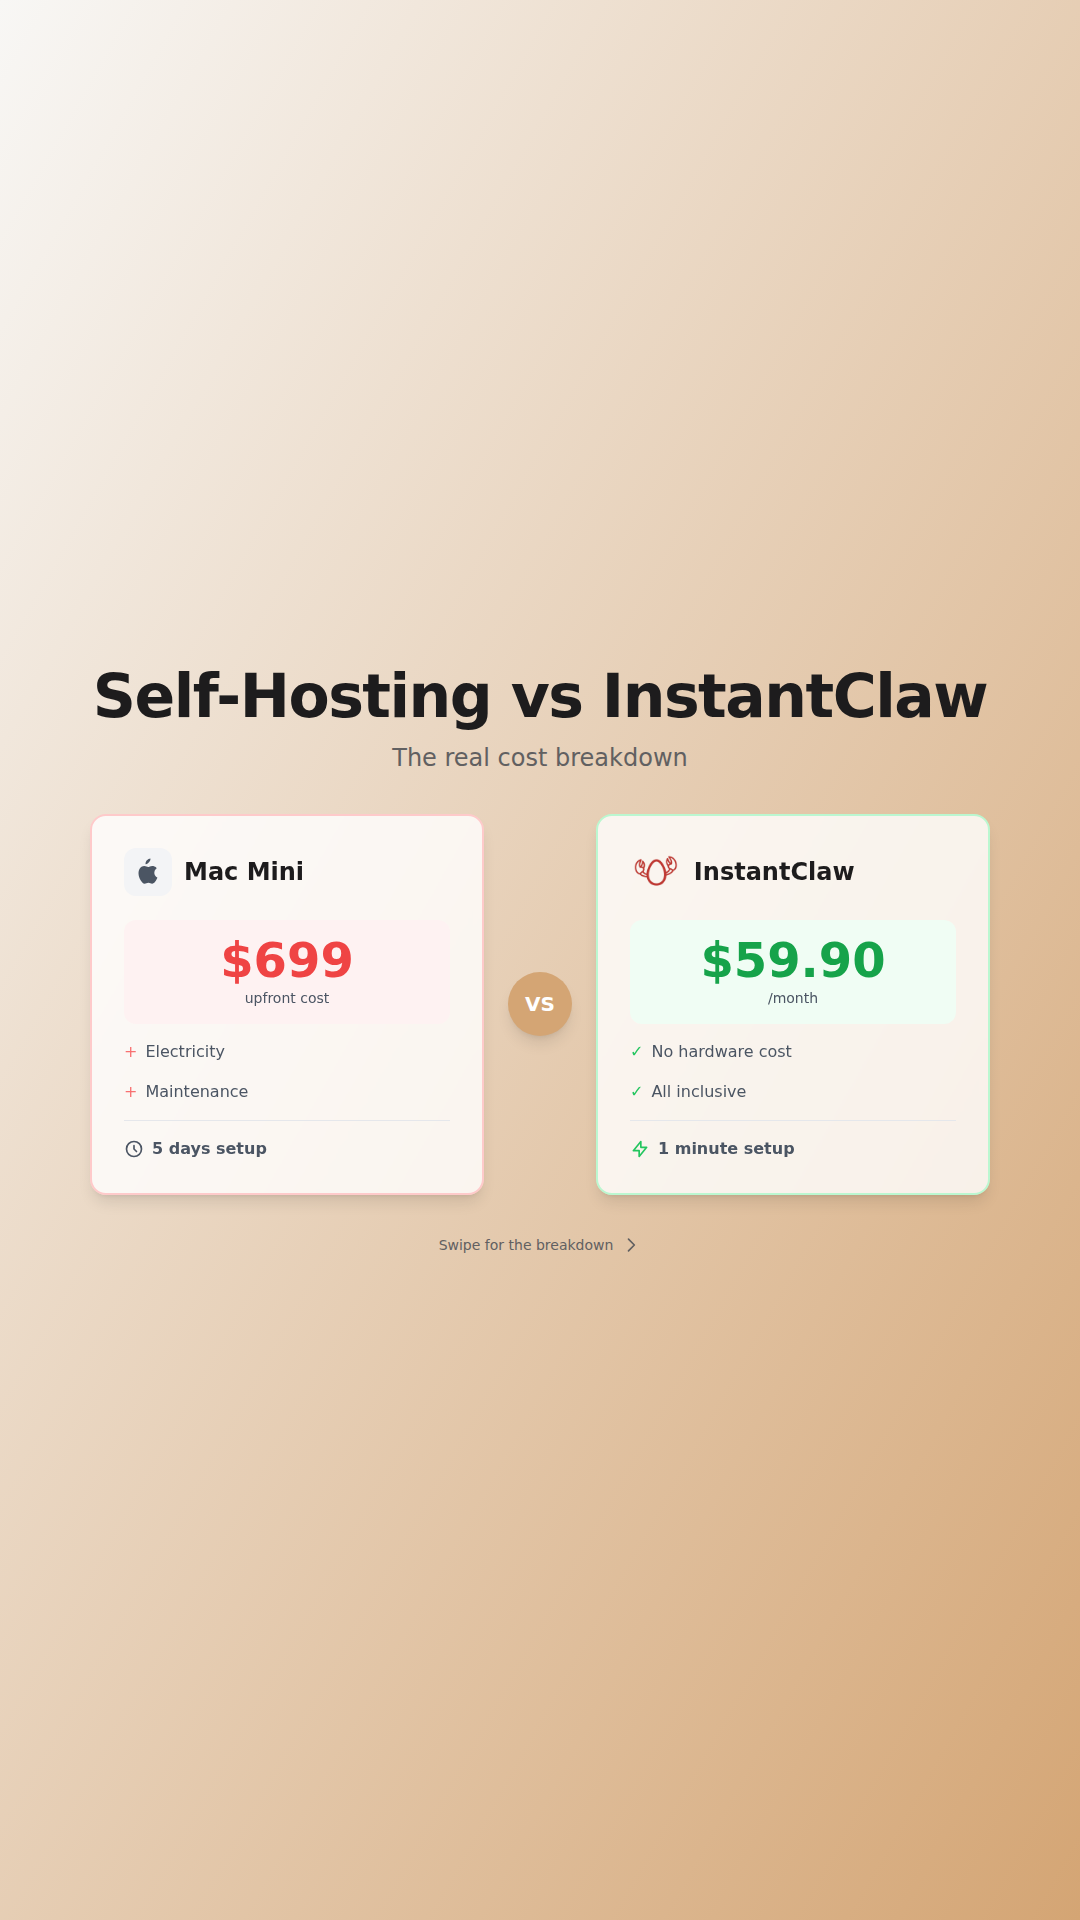
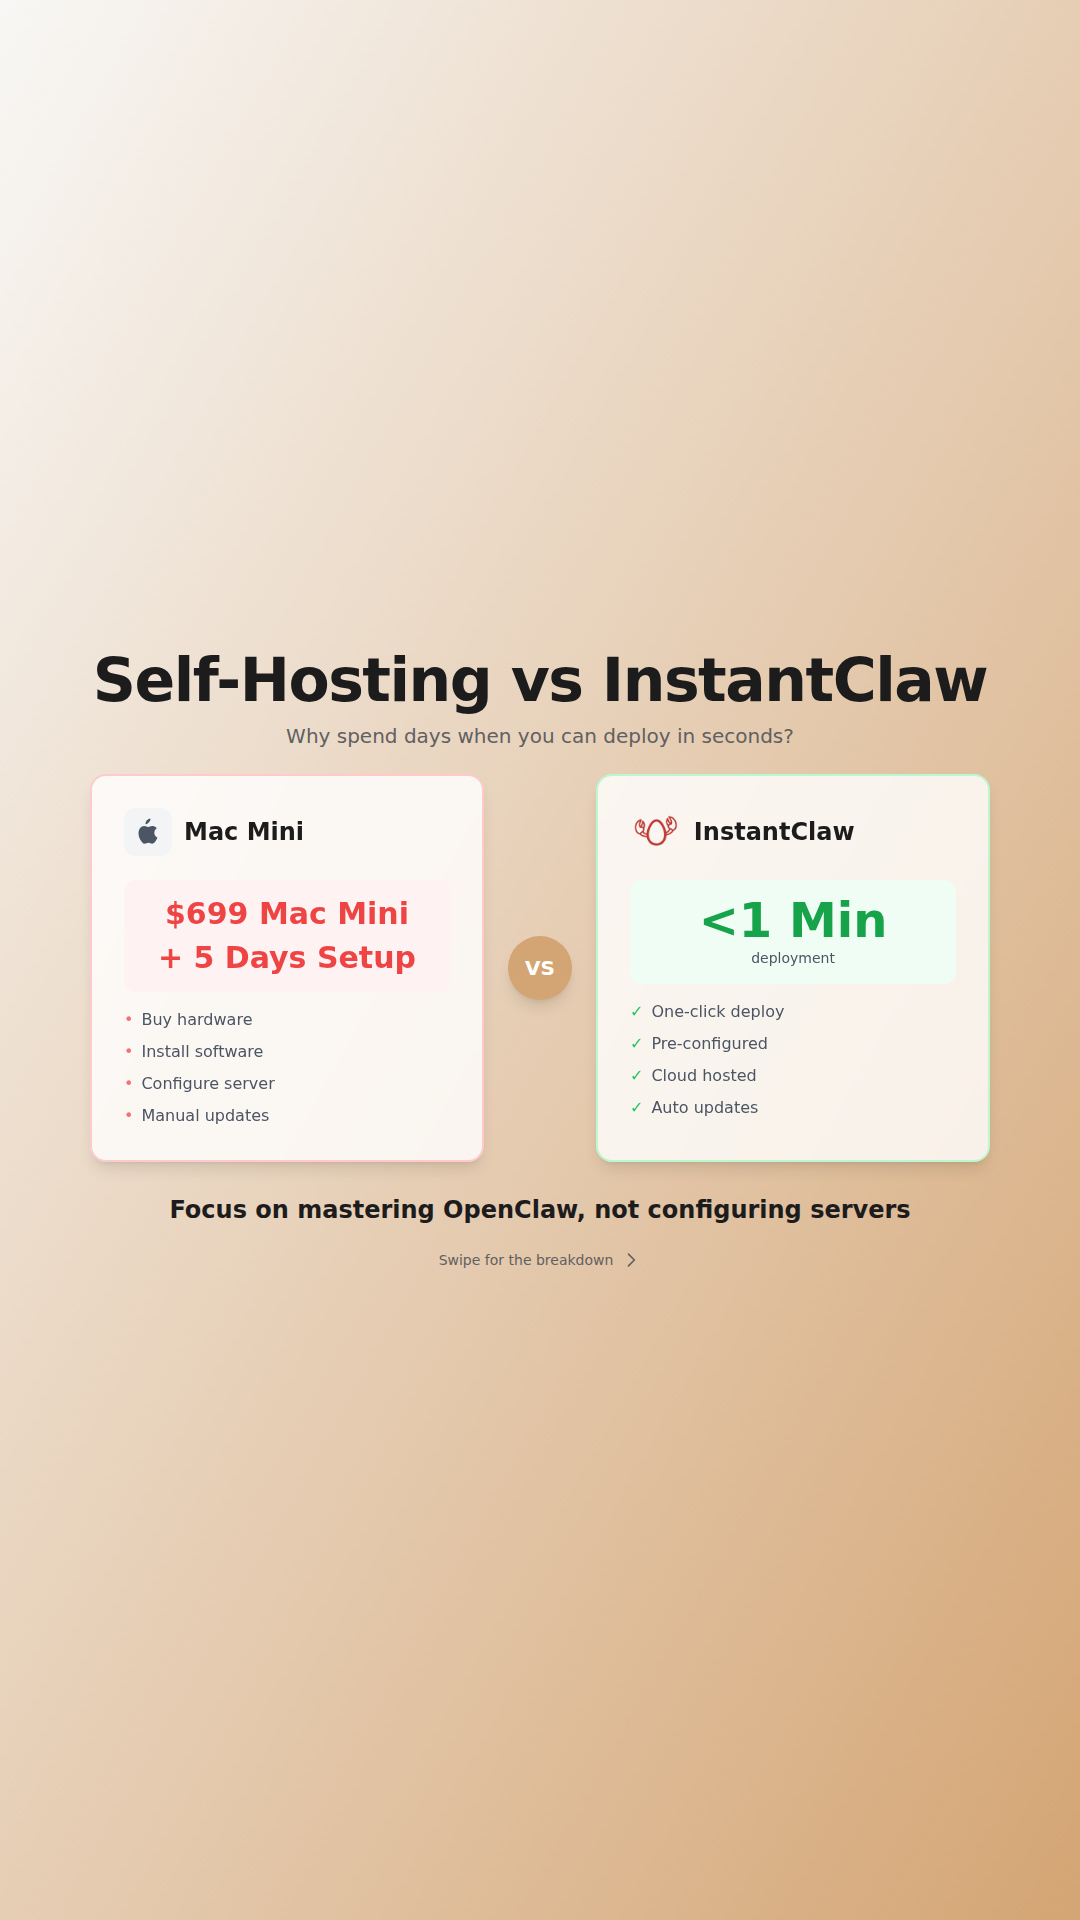
Finalize Post 2 Slide 1: Mac Mini vs InstantClaw
- Equal font sizes for 99 Mac Mini and + 5 Days Setup
- Focus on time comparison, not price
- Tagline: Focus on mastering OpenClaw, not configuring servers
- Also includes Slide 2 alternatives (Timeline and List versions)

Changed region(s): [[0.0611, 0.3438, 0.9167, 0.6562], [0.4583, 0.4688, 0.55, 0.5625]]

diff --git a/pages/post2-slide-01.js b/pages/post2-slide-01.js
@@ -4,11 +4,11 @@ const Post2Slide01Cover = () => {
   return (
     <div className="min-h-screen w-full flex flex-col items-center justify-center bg-gradient-to-br from-[#F8F7F5] to-[#D4A574] p-8 font-sans antialiased">
       {/* Title */}
-      <div className="text-center mb-10">
-        <h1 className="font-sans text-5xl md:text-6xl font-bold tracking-tight text-[#1D1C1D] mb-4">
+      <div className="text-center mb-6">
+        <h1 className="font-sans text-5xl md:text-6xl font-bold tracking-tight text-[#1D1C1D] mb-3">
           Self-Hosting vs InstantClaw
         </h1>
-        <p className="text-2xl text-[#616061]">The real cost breakdown</p>
+        <p className="text-xl text-[#616061]">Why spend days when you can deploy in seconds?</p>
       </div>
 
       {/* Comparison Cards */}
@@ -26,23 +26,25 @@ const Post2Slide01Cover = () => {
           
           <div className="space-y-4">
             <div className="text-center py-4 bg-red-50 rounded-xl">
-              <span className="text-5xl font-bold text-red-500">$699</span>
-              <p className="text-sm text-gray-600 mt-1">upfront cost</p>
+              <span className="text-3xl font-bold text-red-500">$699 Mac Mini</span>
+              <p className="text-3xl font-bold text-red-500 mt-2">+ 5 Days Setup</p>
             </div>
-            <div className="flex items-center gap-2 text-gray-600">
-              <span className="text-red-400">+</span>
-              <span>Electricity</span>
-            </div>
-            <div className="flex items-center gap-2 text-gray-600">
-              <span className="text-red-400">+</span>
-              <span>Maintenance</span>
-            </div>
-            <div className="pt-4 border-t border-gray-200">
-              <div className="flex items-center gap-2 text-gray-600">
-                <svg className="w-5 h-5" fill="none" viewBox="0 0 24 24" stroke="currentColor">
-                  <path strokeLinecap="round" strokeLinejoin="round" strokeWidth={2} d="M12 8v4l3 3m6-3a9 9 0 11-18 0 9 9 0 0118 0z" />
-                </svg>
-                <span className="font-semibold">5 days setup</span>
+            <div className="space-y-2 text-gray-600">
+              <div className="flex items-center gap-2">
+                <span className="text-red-400">•</span>
+                <span>Buy hardware</span>
+              </div>
+              <div className="flex items-center gap-2">
+                <span className="text-red-400">•</span>
+                <span>Install software</span>
+              </div>
+              <div className="flex items-center gap-2">
+                <span className="text-red-400">•</span>
+                <span>Configure server</span>
+              </div>
+              <div className="flex items-center gap-2">
+                <span className="text-red-400">•</span>
+                <span>Manual updates</span>
               </div>
             </div>
           </div>
@@ -69,31 +71,40 @@ const Post2Slide01Cover = () => {
           
           <div className="space-y-4">
             <div className="text-center py-4 bg-green-50 rounded-xl">
-              <span className="text-5xl font-bold text-green-600">$59.90</span>
-              <p className="text-sm text-gray-600 mt-1">/month</p>
+              <span className="text-5xl font-bold text-green-600">&lt;1 Min</span>
+              <p className="text-sm text-gray-600 mt-1">deployment</p>
             </div>
-            <div className="flex items-center gap-2 text-gray-600">
-              <span className="text-green-500">✓</span>
-              <span>No hardware cost</span>
-            </div>
-            <div className="flex items-center gap-2 text-gray-600">
-              <span className="text-green-500">✓</span>
-              <span>All inclusive</span>
-            </div>
-            <div className="pt-4 border-t border-gray-200">
-              <div className="flex items-center gap-2 text-gray-600">
-                <svg className="w-5 h-5 text-green-500" fill="none" viewBox="0 0 24 24" stroke="currentColor">
-                  <path strokeLinecap="round" strokeLinejoin="round" strokeWidth={2} d="M13 10V3L4 14h7v7l9-11h-7z" />
-                </svg>
-                <span className="font-semibold">1 minute setup</span>
+            <div className="space-y-2 text-gray-600">
+              <div className="flex items-center gap-2">
+                <span className="text-green-500">✓</span>
+                <span>One-click deploy</span>
+              </div>
+              <div className="flex items-center gap-2">
+                <span className="text-green-500">✓</span>
+                <span>Pre-configured</span>
+              </div>
+              <div className="flex items-center gap-2">
+                <span className="text-green-500">✓</span>
+                <span>Cloud hosted</span>
+              </div>
+              <div className="flex items-center gap-2">
+                <span className="text-green-500">✓</span>
+                <span>Auto updates</span>
               </div>
             </div>
           </div>
         </div>
       </div>
 
+      {/* Key Message */}
+      <div className="mt-8 text-center">
+        <p className="text-2xl font-bold text-[#1D1C1D]">
+          Focus on mastering OpenClaw, not configuring servers
+        </p>
+      </div>
+
       {/* Swipe indicator */}
-      <div className="mt-10 flex items-center gap-2 text-[#616061]">
+      <div className="mt-6 flex items-center gap-2 text-[#616061]">
         <span className="text-sm">Swipe for the breakdown</span>
         <svg className="w-5 h-5" fill="none" viewBox="0 0 24 24" stroke="currentColor">
           <path strokeLinecap="round" strokeLinejoin="round" strokeWidth={2} d="M9 5l7 7-7 7" />

diff --git a/pages/post2-slide-02-timeline.js b/pages/post2-slide-02-timeline.js
@@ -1,0 +1,96 @@
+import React from 'react';
+
+// Option C: Timeline with Accumulating Costs
+const Post2Slide02Timeline = () => {
+  const timelineItems = [
+    {
+      month: "Month 0",
+      label: "Purchase",
+      cost: "$699",
+      description: "Mac Mini hardware",
+      icon: "💻",
+      color: "bg-red-100 text-red-600"
+    },
+    {
+      month: "Month 1-12",
+      label: "Electricity",
+      cost: "$10-20/mo",
+      description: "24/7 server running",
+      icon: "⚡",
+      color: "bg-yellow-100 text-yellow-600"
+    },
+    {
+      month: "Ongoing",
+      label: "Maintenance",
+      cost: "Your time",
+      description: "Manual updates & fixes",
+      icon: "🔧",
+      color: "bg-orange-100 text-orange-600"
+    },
+    {
+      month: "When it breaks",
+      label: "Repairs",
+      cost: "$??",
+      description: "Unexpected issues",
+      icon: "🔄",
+      color: "bg-gray-100 text-gray-600"
+    }
+  ];
+
+  return (
+    <div className="min-h-screen w-full flex flex-col items-center justify-center bg-gradient-to-br from-[#F8F7F5] to-[#D4A574] p-6 font-sans antialiased">
+      {/* Title */}
+      <div className="text-center mb-8">
+        <h1 className="font-sans text-5xl md:text-6xl font-bold tracking-tight text-[#1D1C1D] mb-2">
+          The Real Cost
+        </h1>
+        <p className="text-xl text-[#616061]">Mac Mini over 12 months</p>
+      </div>
+
+      {/* Timeline */}
+      <div className="relative max-w-[600px] w-full">
+        {/* Vertical Line */}
+        <div className="absolute left-8 top-0 bottom-0 w-0.5 bg-[#D4A574]/40"></div>
+
+        {/* Timeline Items */}
+        <div className="space-y-4">
+          {timelineItems.map((item, index) => (
+            <div key={index} className="relative flex items-start gap-4 pl-2">
+              {/* Icon Circle */}
+              <div className={`w-12 h-12 rounded-full ${item.color} flex items-center justify-center text-2xl shrink-0 relative z-10 border-4 border-[#F8F7F5]`}>
+                {item.icon}
+              </div>
+              
+              {/* Content Card */}
+              <div className="flex-1 bg-white/90 backdrop-blur-sm rounded-xl p-4 shadow-md border border-[#D4A574]/20">
+                <div className="flex justify-between items-start mb-1">
+                  <span className="text-sm font-semibold text-[#616061]">{item.month}</span>
+                  <span className="text-xl font-bold text-[#1D1C1D]">{item.cost}</span>
+                </div>
+                <h3 className="text-lg font-bold text-[#1D1C1D]">{item.label}</h3>
+                <p className="text-sm text-[#616061]">{item.description}</p>
+              </div>
+            </div>
+          ))}
+        </div>
+      </div>
+
+      {/* Total Cost Callout */}
+      <div className="mt-8 bg-red-50 border-2 border-red-200 rounded-2xl px-8 py-4 text-center">
+        <p className="text-sm text-red-600 font-semibold uppercase tracking-wide mb-1">Total First Year</p>
+        <p className="text-4xl font-bold text-red-500">$699+</p>
+        <p className="text-sm text-gray-500">and counting...</p>
+      </div>
+
+      {/* Swipe indicator */}
+      <div className="mt-6 flex items-center gap-2 text-[#616061]">
+        <span className="text-sm">Swipe for more</span>
+        <svg className="w-5 h-5" fill="none" viewBox="0 0 24 24" stroke="currentColor">
+          <path strokeLinecap="round" strokeLinejoin="round" strokeWidth={2} d="M9 5l7 7-7 7" />
+        </svg>
+      </div>
+    </div>
+  );
+};
+
+export default Post2Slide02Timeline;

diff --git a/pages/post2-slide-02-list.js b/pages/post2-slide-02-list.js
@@ -1,0 +1,88 @@
+import React from 'react';
+
+// Option D: Simple Itemized List with Icons
+const Post2Slide02List = () => {
+  const costItems = [
+    {
+      icon: "💻",
+      title: "Mac Mini Hardware",
+      cost: "$699",
+      subtitle: "One-time purchase",
+      color: "bg-red-100 text-red-600"
+    },
+    {
+      icon: "⚡",
+      title: "Electricity",
+      cost: "$10-20/mo",
+      subtitle: "24/7 server running",
+      color: "bg-yellow-100 text-yellow-600"
+    },
+    {
+      icon: "🔧",
+      title: "Maintenance",
+      cost: "Your time",
+      subtitle: "Manual updates & fixes",
+      color: "bg-orange-100 text-orange-600"
+    },
+    {
+      icon: "🔄",
+      title: "Updates & Repairs",
+      cost: "$??",
+      subtitle: "When things break",
+      color: "bg-gray-100 text-gray-600"
+    }
+  ];
+
+  return (
+    <div className="min-h-screen w-full flex flex-col items-center justify-center bg-gradient-to-br from-[#F8F7F5] to-[#D4A574] p-8 font-sans antialiased">
+      {/* Title */}
+      <div className="text-center mb-10">
+        <h1 className="font-sans text-5xl md:text-6xl lg:text-7xl font-bold tracking-tight text-[#1D1C1D] mb-2">
+          Mac Mini Costs
+        </h1>
+        <p className="text-xl text-[#616061]">What you're really paying</p>
+      </div>
+
+      {/* List Items */}
+      <div className="flex flex-col gap-4 max-w-[600px] w-full">
+        {costItems.map((item, index) => (
+          <div 
+            key={index}
+            className="bg-white/90 backdrop-blur-sm rounded-2xl p-5 flex items-center gap-5 shadow-lg border border-[#D4A574]/20 hover:shadow-xl transition-shadow"
+          >
+            {/* Icon */}
+            <div className={`w-16 h-16 rounded-2xl ${item.color} flex items-center justify-center text-3xl shrink-0`}>
+              {item.icon}
+            </div>
+            
+            {/* Content */}
+            <div className="flex-1">
+              <div className="flex justify-between items-center mb-1">
+                <h3 className="text-xl font-bold text-[#1D1C1D]">{item.title}</h3>
+                <span className="text-2xl font-bold text-[#1D1C1D]">{item.cost}</span>
+              </div>
+              <p className="text-[#616061]">{item.subtitle}</p>
+            </div>
+          </div>
+        ))}
+      </div>
+
+      {/* Total */}
+      <div className="mt-8 bg-red-50 border-2 border-red-200 rounded-2xl px-10 py-5 text-center">
+        <p className="text-sm text-red-600 font-semibold uppercase tracking-wide mb-1">True Cost First Year</p>
+        <p className="text-5xl font-bold text-red-500">$819+</p>
+        <p className="text-sm text-gray-500 mt-1">Plus your time & repairs</p>
+      </div>
+
+      {/* Swipe indicator */}
+      <div className="mt-8 flex items-center gap-2 text-[#616061]">
+        <span className="text-sm">Swipe for more</span>
+        <svg className="w-5 h-5" fill="none" viewBox="0 0 24 24" stroke="currentColor">
+          <path strokeLinecap="round" strokeLinejoin="round" strokeWidth={2} d="M9 5l7 7-7 7" />
+        </svg>
+      </div>
+    </div>
+  );
+};
+
+export default Post2Slide02List;
